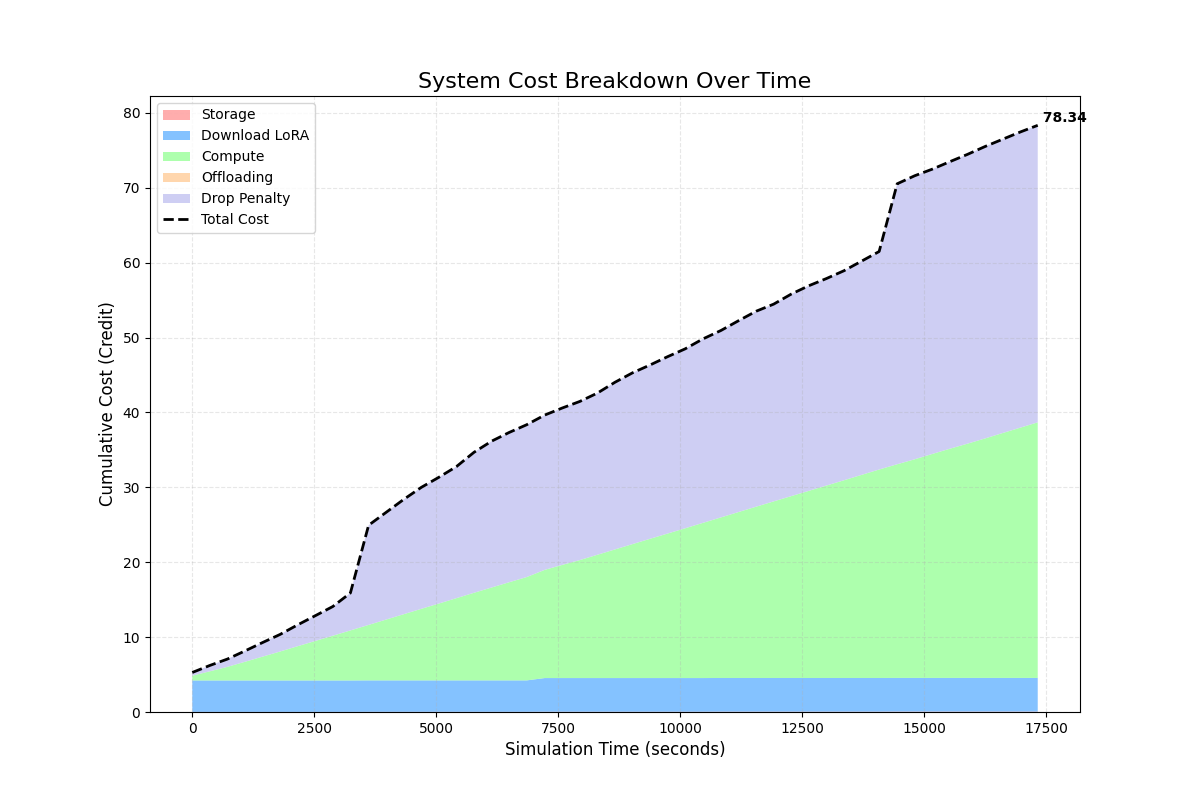
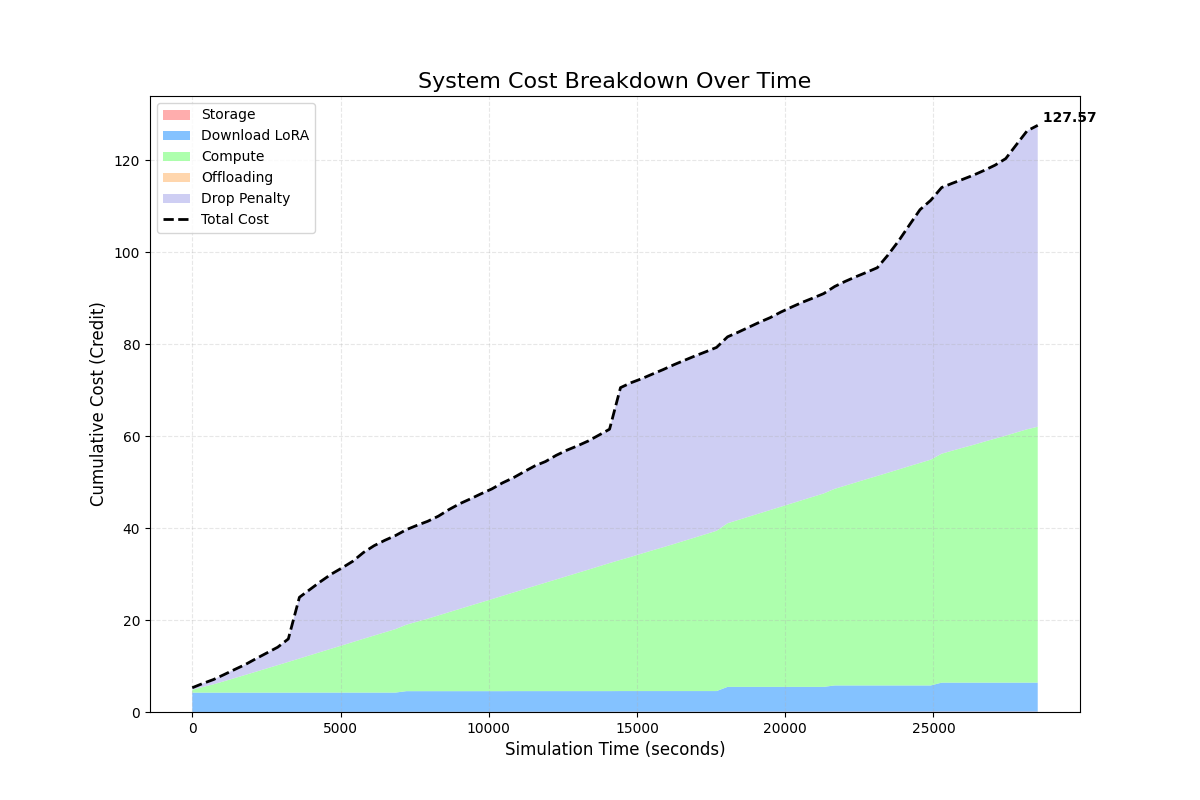
tmp

diff --git a/EFO_server_lru.py b/EFO_server_lru.py
@@ -6,7 +6,7 @@ import httpx
 import time
 from contextlib import asynccontextmanager
 from typing import Dict, Any, Optional
-from collections import OrderedDict
+from collections import OrderedDict, defaultdict
 
 from fastapi import FastAPI
 from pydantic import BaseModel
@@ -37,7 +37,8 @@ CLUSTERS_ENV = os.environ.get("CLUSTERS", "{}")
 class EFOMetrics:
     def __init__(self):
         self.lock = asyncio.Lock()
-        self.artifact_downloads = 0  # 累計下載次數 (反映 LRU Cache Miss 的網路成本)
+        # 累計下載次數 (反映 LRU Cache Miss 的網路成本)，改為追蹤個別 Cluster
+        self.artifact_downloads = defaultdict(int)
 
 efo_metrics = EFOMetrics()
 
@@ -126,8 +127,17 @@ async def run_efo_metrics_cycle(step_id: int):
             
             # EFO 的自身指標
             async with efo_metrics.lock:
-                global_snapshot["efo_totals"]["artifact_downloads"] = efo_metrics.artifact_downloads
+                # 統計全域總量
+                global_snapshot["efo_totals"]["artifact_downloads"] = sum(efo_metrics.artifact_downloads.values())
                 global_snapshot["efo_totals"]["total_stored_loras"] = sum(len(c) for c in cluster_lru_caches.values())
+                
+                # 關鍵修復：將 EFO 掌管的下載與儲存狀態，注入回各個 Cluster 的日誌結構中
+                for c_name in active_clusters.keys():
+                    if c_name not in global_snapshot["clusters"]:
+                        global_snapshot["clusters"][c_name] = {}
+                    
+                    global_snapshot["clusters"][c_name]["artifact_downloads"] = efo_metrics.artifact_downloads.get(c_name, 0)
+                    global_snapshot["clusters"][c_name]["total_stored_loras"] = len(cluster_lru_caches.get(c_name, []))
             
             with open(log_file, "a") as f:
                 f.write(json.dumps(global_snapshot) + "\n")
@@ -195,9 +205,9 @@ async def fetch_and_evict_lora(req: LRURequest):
     # 加入快取 (MRU 位置)
     cache[lora_id] = True
     
-    # 增加模擬下載次數 (Artifact Download Cost)
+    # 增加模擬下載次數 (針對觸發的 cluster)
     async with efo_metrics.lock:
-        efo_metrics.artifact_downloads += 1
+        efo_metrics.artifact_downloads[cluster] += 1
         
     # 檢查容量限制，執行 LRU Eviction
     CAPACITY = get_max_capacity()

diff --git a/cnt.py b/cnt.py
@@ -1,0 +1,71 @@
+import pandas as pd
+import json
+import os
+from config import SP1_INTERVAL_SECONDS
+
+# 設定與原模擬器一致
+TRACE_CSV = "./information/simulation_data.csv"
+START_OFFSET = 86400 * 2
+RUN_DURATION = SP1_INTERVAL_SECONDS * 8
+
+def _load_json_env(name: str, default_json: str):
+    raw = os.getenv(name, "").strip()
+    if not raw:
+        return json.loads(default_json)
+    try:
+        return json.loads(raw)
+    except Exception as e:
+        return json.loads(default_json)
+
+# 取得目標 Cluster 名單
+TARGET_CLUSTERS = _load_json_env("TARGET_CLUSTERS", '["cluster_1", "cluster_2", "cluster_3"]')
+
+def count_simulation_requests():
+    if not os.path.exists(TRACE_CSV):
+        print(f"❌ 找不到檔案: {TRACE_CSV}")
+        return
+
+    print(f"📊 正在讀取並統計請求數量 (Offset: {START_OFFSET}s, Duration: {RUN_DURATION}s)...")
+    
+    # 讀取資料
+    df = pd.read_csv(TRACE_CSV)
+
+    # 1. 轉換時間與過濾區間
+    df["arrival_sec"] = df["arrive_timestamp"].astype(float)
+    df = df[(df["arrival_sec"] >= START_OFFSET) & 
+            (df["arrival_sec"] <= START_OFFSET + RUN_DURATION)].copy()
+
+    # 2. 過濾 Cluster
+    df = df[df["cluster"].isin(TARGET_CLUSTERS)]
+
+    # 3. 格式化 LoRA ID (補上 LoRA_ 字頭以利閱讀)
+    df["lora_name"] = df["lora_id"].apply(lambda x: f"LoRA_{int(x)}")
+
+    # 4. 進行群組統計
+    # 以 Cluster 和 LoRA 分組，計算每一組的數量
+    stats = df.groupby(['cluster', 'lora_name']).size().reset_index(name='count')
+
+    # 5. 排序並列印結果
+    stats = stats.sort_values(by=['cluster', 'count'], ascending=[True, False])
+
+    print("\n" + "="*40)
+    print(f"{'Cluster':<15} | {'LoRA ID':<10} | {'Count':<6}")
+    print("-" * 40)
+    
+    total_count = 0
+    for _, row in stats.iterrows():
+        print(f"{row['cluster']:<15} | {row['lora_name']:<10} | {row['count']:<6}")
+        total_count += row['count']
+    
+    print("-" * 40)
+    print(f"{'TOTAL':<15} | {'':<10} | {total_count:<6}")
+    print("="*40)
+
+    # 額外統計：各 Cluster 的總量
+    print("\n各 Cluster 總計:")
+    cluster_totals = df.groupby('cluster').size()
+    for cluster, count in cluster_totals.items():
+        print(f"- {cluster}: {count}")
+
+if __name__ == "__main__":
+    count_requests = count_simulation_requests()

diff --git a/cost.py b/cost.py
@@ -189,3 +189,6 @@ if __name__ == "__main__":
     log_file = "./experiment_single_cluster_2nodes3_logs/efo_global_metrics.log"
     output_image = "cost_breakdown_3.png"
     generate_cost_plot(log_file, output_image)
+    log_file = "./experiment_single_cluster_2nodes4_logs/efo_global_metrics.log"
+    output_image = "cost_breakdown_4.png"
+    generate_cost_plot(log_file, output_image)
